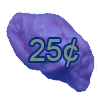
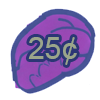
Updated Baseball and Gum images and prefabs
@jwestwinds fix item colliders please

diff --git a/Assets/Scripts/Data/ItemDatabase.cs b/Assets/Scripts/Data/ItemDatabase.cs
@@ -6,13 +6,13 @@ public class ItemDatabase : MonoBehaviour {
 
 	void Start()
 	{
-		items.Add (new Item ("BubbleGum", 0, "Slows down enemies \n when they step on this.", 0, 0, 2.2, Item.ItemType.Stat, 25));
-		items.Add (new Item ("Paperwad", 1, "Deals 1 damage \n point towards enemies", 1, 8, 0, Item.ItemType.Weapon, 15));
-		items.Add (new Item ("baseball", 2, "Deals 1 damage \n point towards enemies. Can hit multiple enemies", 1, 8, 0, Item.ItemType.Weapon, 40));
-		items.Add (new Item ("dodgeballer", 3, "Deals 1 damage \n point towards nearby enemies. Can hit multiple enemies", 1, 8, 0, Item.ItemType.Weapon, 35));
-		items.Add (new Item ("paperplane", 4, "Deals 2 damage \n point towards nearby enemies.", 2, 7, 0, Item.ItemType.Weapon, 50));
-		items.Add (new Item ("candy", 5, "Slows an enemy down.", 0, 8, 0, Item.ItemType.Stat, 20));
-		items.Add (new Item ("Tack", 6, "Hits an enemy with 1 point of damage. Slows enemy a bit.", 0, 8, 0, Item.ItemType.Stat, 40));
-		items.Add (new Item ("BigF", 7, "Instantly defeats an enemy, but at a hefty cost, can you risk it? Unlocked by defeating a Professor F.", 100, 8, 0, Item.ItemType.Weapon, 100));
+		items.Add (new Item ("BubbleGum", 0, "Slows down enemies \n when they step on this.", 0, 0, 2.2, Item.ItemType.Stat, 25, "BubbleGumGirl"));
+		items.Add (new Item ("Paperwad", 1, "Deals 1 damage \n point towards enemies", 1, 8, 0, Item.ItemType.Weapon, 15, "PaperwadBoy"));
+		items.Add (new Item ("Baseball", 2, "Deals 1 damage \n point towards enemies. Can hit multiple enemies", 1, 8, 0, Item.ItemType.Weapon, 40, "BaseballBoy"));
+		items.Add (new Item ("dodgeballer", 3, "Deals 1 damage \n point towards nearby enemies. Can hit multiple enemies", 1, 8, 0, Item.ItemType.Weapon, 35, "DodgeballGirl"));
+		items.Add (new Item ("paperplane", 4, "Deals 2 damage \n point towards nearby enemies.", 2, 7, 0, Item.ItemType.Weapon, 50, "PaperplaneGirl"));
+		items.Add (new Item ("candy", 5, "Slows an enemy down.", 0, 8, 0, Item.ItemType.Stat, 20, "Candykid"));
+		items.Add (new Item ("Tack", 6, "Hits an enemy with 1 point of damage. Slows enemy a bit.", 0, 8, 0, Item.ItemType.Stat, 40, "Tackkid"));
+		items.Add (new Item ("BigF", 7, "Instantly defeats an enemy, but at a hefty cost, can you risk it? Unlocked by defeating a Professor F.", 100, 8, 0, Item.ItemType.Weapon, 100, "BigFKid"));
 	}
 }

diff --git a/Assets/Scripts/Data/Item.cs b/Assets/Scripts/Data/Item.cs
@@ -13,12 +13,13 @@ public class Item {
 	public double SpeedDecrease; //if it hits an enemy, the enemy will slow down
 	public ItemType itemtype; //determines the type of item
 	public int itemCost;
+	public string player_image;
 	public enum ItemType{
 		Weapon,
 		Stat
 	}
 
-	public Item(string name, int id, string des, int damage, int speed, double speeddecrease, ItemType type, int cost)
+	public Item(string name, int id, string des, int damage, int speed, double speeddecrease, ItemType type, int cost, string player)
 	{
 		ItemName = name;
 		ItemID = id;
@@ -29,6 +30,7 @@ public class Item {
 		SpeedDecrease = speeddecrease;
 		itemtype = type;
 		itemCost = cost;
+		player_image = player;
 	}
 	public Item(){}
 }

diff --git a/Assets/Scripts/Player/SpawnPaperboy.cs b/Assets/Scripts/Player/SpawnPaperboy.cs
@@ -58,7 +58,7 @@ public class SpawnPaperboy : MonoBehaviour {
 				Ray ray = Camera.main.ScreenPointToRay (Input.mousePosition);
 				Vector3 pos = new Vector3 (ray.origin.x, ray.origin.y, -0.2f);
 				//place tower
-				Instantiate (Resources.Load ("Towers/" + Id.GetComponent<ItemDatabase>().items[Inv.GetComponent<Inventory> ().SPAWNTOWER].ItemName), pos, transform.rotation);
+				Instantiate (Resources.Load ("Towers/" + Id.GetComponent<ItemDatabase>().items[Inv.GetComponent<Inventory> ().SPAWNTOWER].player_image), pos, transform.rotation);
 
 				//reset variables after tower is placed
 				poop = true;
